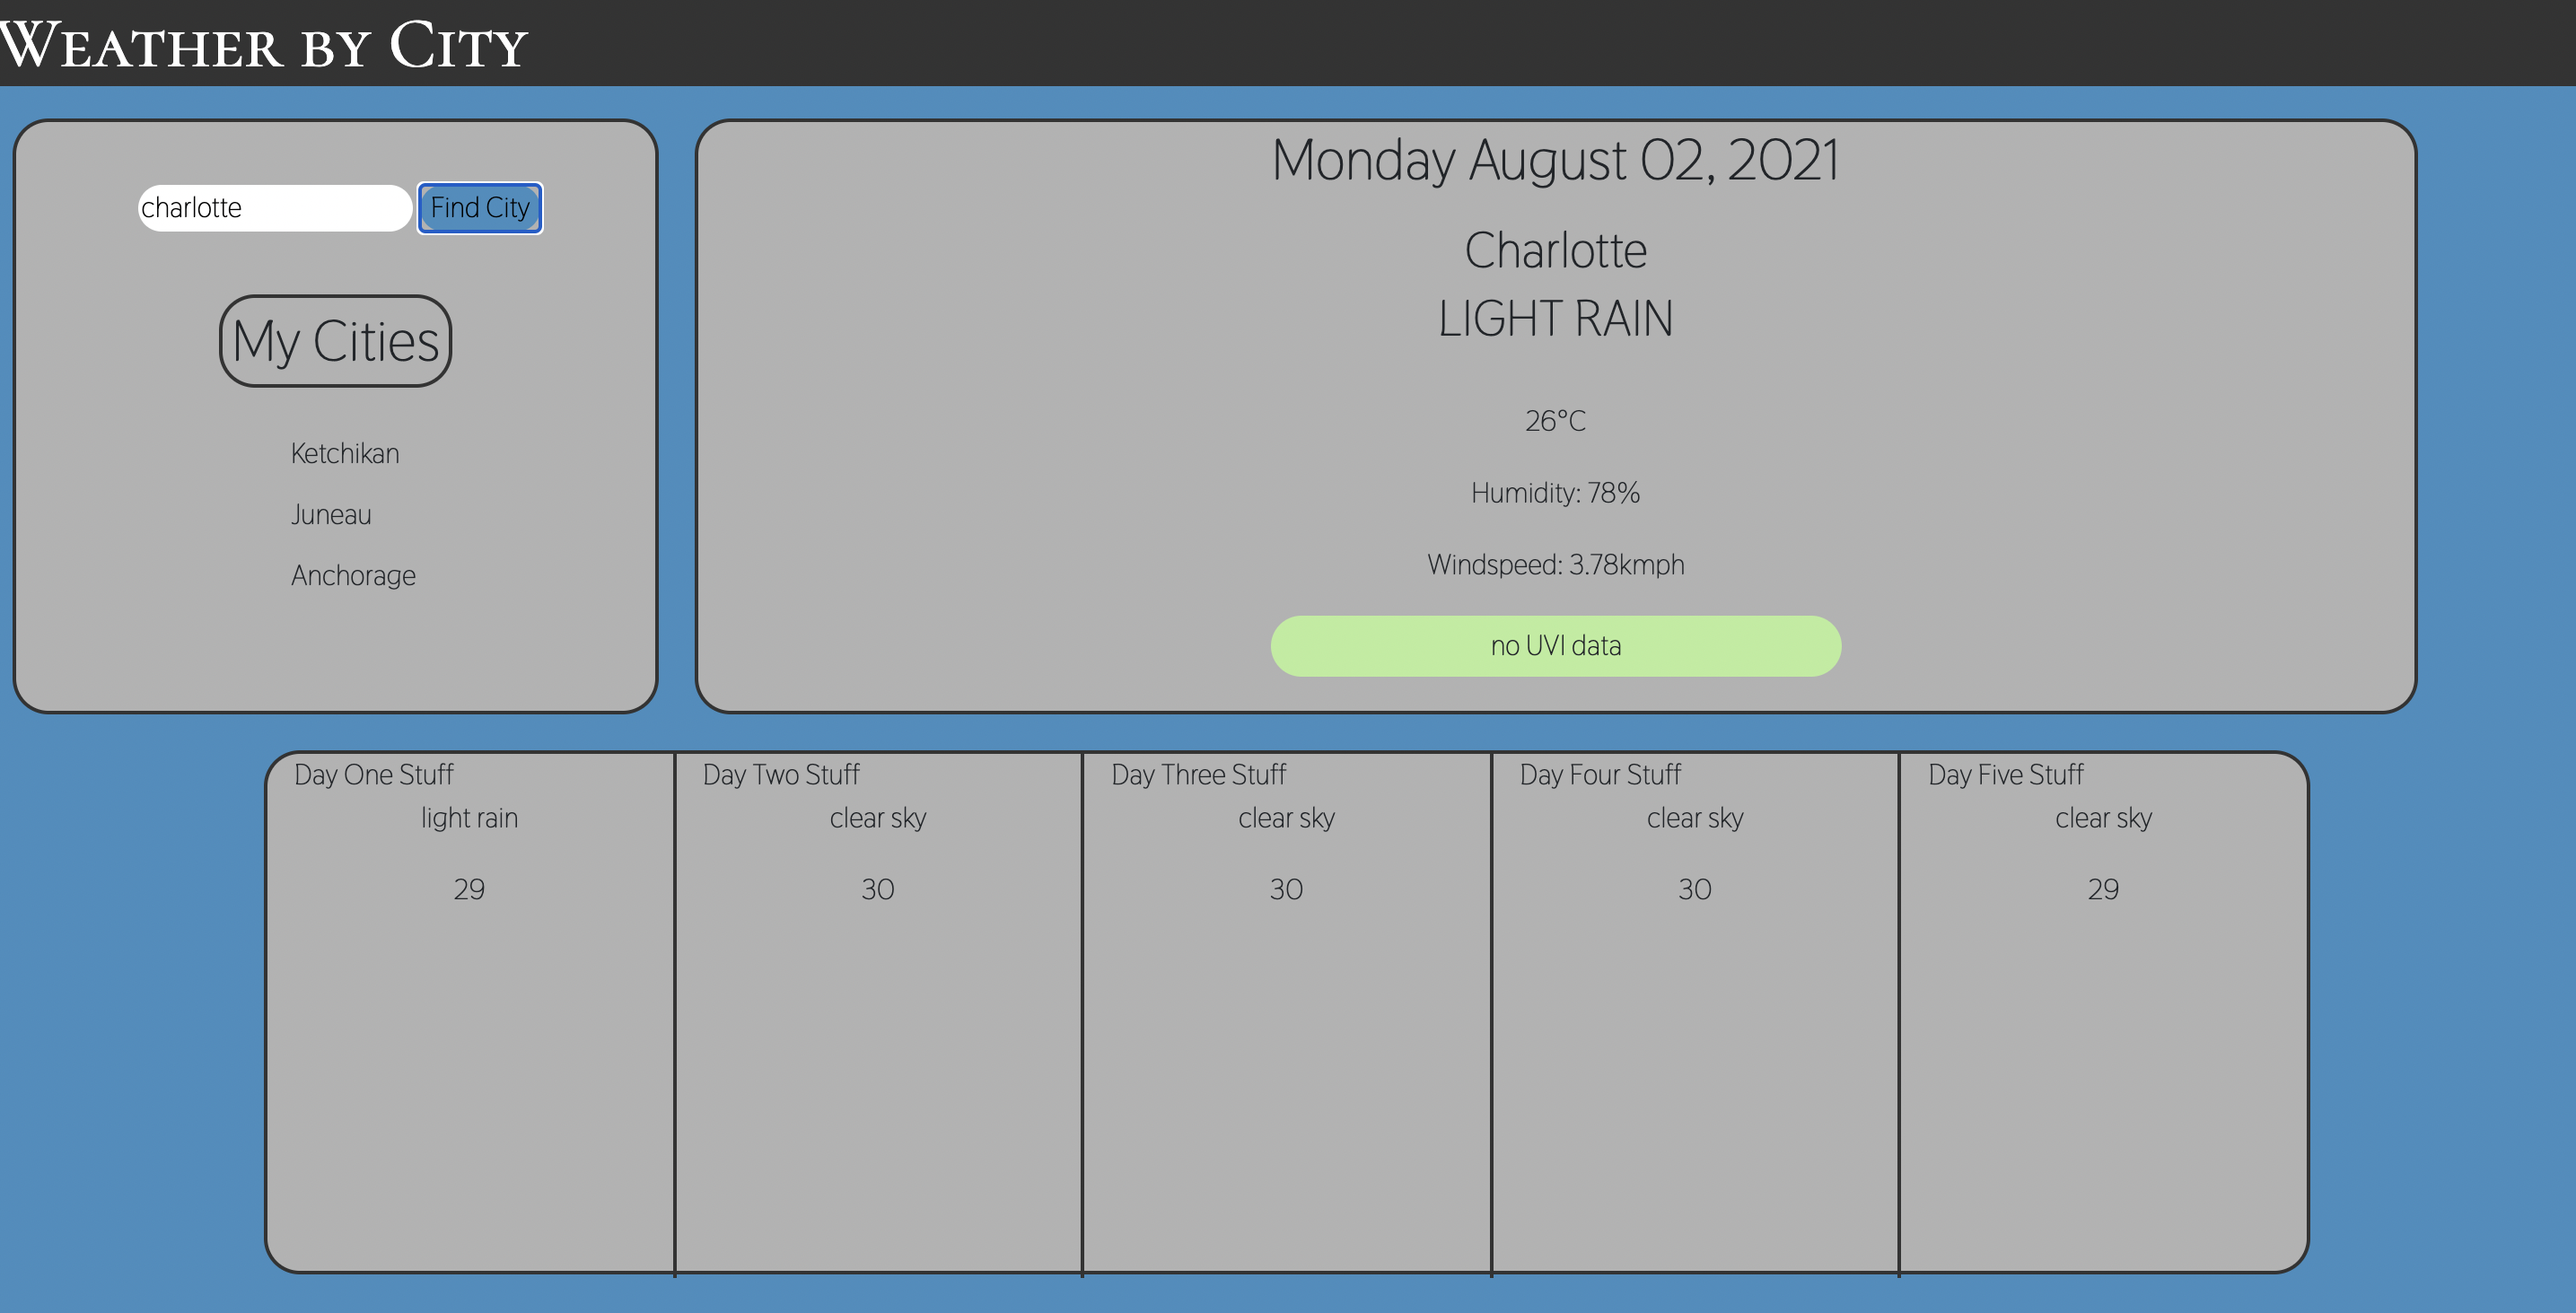
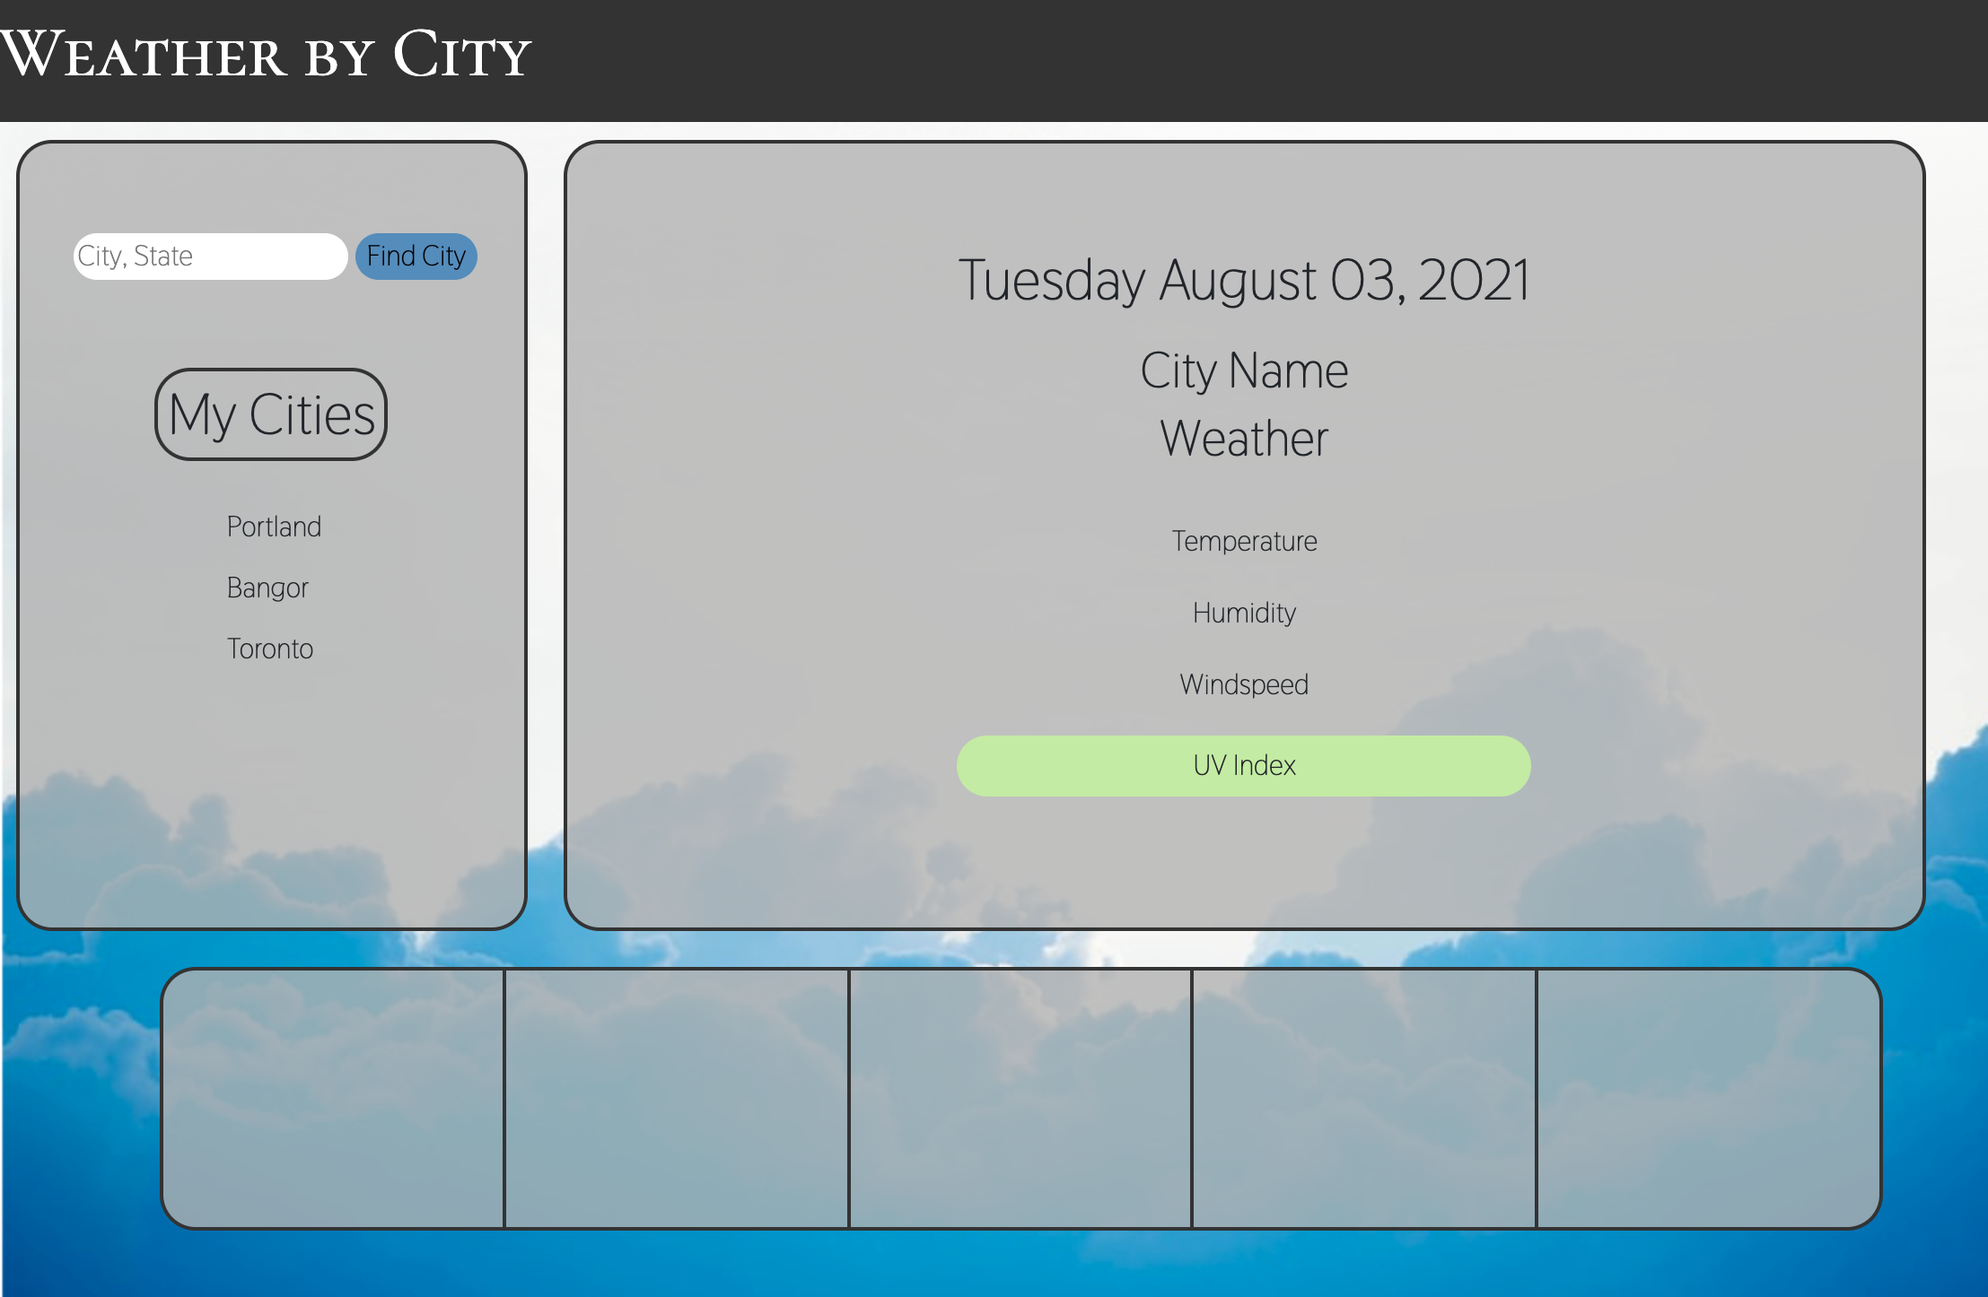
past cities display on load past cities are functioning links site background is image updated screenshot

diff --git a/assets/script.js b/assets/script.js
@@ -14,28 +14,67 @@ $(document).ready(function () {
     const $dayThreeWeather = $('#dayThree');
     const $dayFourWeather = $('#dayFour');
     const $dayFiveWeather = $('#dayFive');
+    const storedCity = getStorage('pastCities');
+    const parsedCitiesFromStorage = parseThis(storedCity)
 
     let currentDay = dayjs();
     
     const apiKey = "d2a2cad4f1d38ef0dfacee769aba90c6";
-
+    
     // functions for accessing local storage
     function parseThis(thing)   {
         return JSON.parse(thing);
     };
-
+    
     function stringifyThis(thing)   {
         return JSON.stringify(thing);
     };
-
+    
     function getStorage(item)   {
         return localStorage.getItem(item);
     };
-
+    
     function setStorage(key, value)    {
         return localStorage.setItem(key, value)
     };
+    
+    function getWeather(lat, long)  {
+        console.log(lat, long)
 
+        fetch(`https://api.openweathermap.org/data/2.5/onecall?lat=${lat}&lon=${lat}&exclude={part}&appid=${apiKey}`)
+        .then(function(response)    {
+            return response.json();
+        })
+        .then(function (data) {
+            console.log(data);
+            const currentWeather = data.current;
+            const forecast = data.daily;
+            displayCurrentWeather(currentWeather);
+            displayForecast(forecast);
+        })
+    }
+
+    function getCity(city)  {
+
+        fetch(`http://api.openweathermap.org/geo/1.0/direct?q=${city}&appid=${apiKey}&units={metric}`)
+        .then(function(response)    {
+            return response.json();
+        })
+        .then(function(data)    {
+            const latitude = data[0].lat;
+            const longitude = data[0].lon;
+            console.log(data)
+
+            getWeather(latitude, longitude)
+        })
+    }
+
+    function displayDate()   {
+        currentDay = dayjs();
+        const day = currentDay.format('dddd MMMM DD, YYYY');
+
+        $todayDate.text(day);
+    }
 
     // show previously searched cities in the past city list
     function displayPastCities(city, i)    {
@@ -53,23 +92,22 @@ $(document).ready(function () {
             const stringifiedCity = stringifyThis(city);
 
             $cityName.text(city);
-
-            getCity(city)
-
+            
             // cities from storage is the storage item 'pastCities'
             const citiesFromStorage = localStorage.getItem('pastCities');
-
+            
             if (city)   {
+                
+                getCity(city)
 
                 if (!citiesFromStorage) {
-                    displayPastCities(stringifiedCity, 0)
                     setStorage('pastCities', `[${stringifiedCity}]`);
                 }
 
                 else {
                     // parse those items from localStorage
-                    const storedCity = getStorage('pastCities');
-                    const parsedCitiesFromStorage = parseThis(storedCity);
+                    storedCity = getStorage('pastCities');
+                    parsedCitiesFromStorage = parseThis(storedCity);
 
                     // add the entered city to the list
                     const newParsedList = [city, ...parsedCitiesFromStorage];
@@ -79,6 +117,9 @@ $(document).ready(function () {
 
                     parsedCitiesFromStorage.forEach(displayPastCities);
                 }
+            }
+            else    {
+                window.alert('Please enter a city.')
             }
     });    
 
@@ -175,51 +216,27 @@ $(document).ready(function () {
 
     }
 
+    function displayMostRecentSearchOnLoad()    {
+        const mostRecentSearchedCity = parsedCitiesFromStorage[0]
 
-    
-    function getWeather(lat, long)  {
-        console.log(lat, long)
-
-        fetch(`https://api.openweathermap.org/data/2.5/onecall?lat=${lat}&lon=${lat}&exclude={part}&appid=${apiKey}`)
-        .then(function(response)    {
-            return response.json();
-        })
-        .then(function (data) {
-            console.log(data);
-            const currentWeather = data.current;
-            const forecast = data.daily;
-            displayCurrentWeather(currentWeather);
-            displayForecast(forecast);
-
-        })
+        getCity(mostRecentSearchedCity);
     }
 
-    function getCity(city)  {
+    $pastCityList.click(function(e)  {
+        const thingClicked = e.target;
 
-        fetch(`http://api.openweathermap.org/geo/1.0/direct?q=${city}&appid=${apiKey}&units={metric}`)
-        .then(function(response)    {
-            return response.json();
-        })
-        .then(function(data)    {
-            const latitude = data[0].lat;
-            const longitude = data[0].lon;
-            console.log(data)
-
-            getWeather(latitude, longitude)
-        })
-    }
-
-    function displayDate()   {
-        currentDay = dayjs();
-        const day = currentDay.format('dddd MMMM DD, YYYY');
-
-        $todayDate.text(day);
-
-    }
+        if  (thingClicked.matches('li'))    {
+            const pastCitySelected = thingClicked.val();
+            getCity(pastCitySelected);
+        }
+    })
 
     displayDate();
 
-    displayPastCities();
+    // this function works, but don't turn it on until deploy (limit api pulls)
+    // displayMostRecentSearchOnLoad()
+
+    parsedCitiesFromStorage.forEach(displayPastCities);
 
 });
 

diff --git a/assets/style.css b/assets/style.css
@@ -1,6 +1,6 @@
 :root   {
     --dark: rgb(51, 51, 51);
-    --grey: rgb(178, 178, 178);
+    --grey: rgb(178, 178, 178, 0.8);
     --light:rgb(255, 255, 255);
     --blue:rgb(63, 142, 191);
     --green:rgb(184, 237, 155);
@@ -14,7 +14,10 @@
 body   {
     height:100vh;
     overflow-y: hidden;
-    background-color: var(--blue);
+    overflow-x: hidden;
+    bottom:0;
+    background-repeat: no-repeat;
+    background-color: white;
 }
 
 main   {
@@ -23,7 +26,13 @@ main   {
 
 header  {
     width:100%;
+    height:70px;
     background-color: var(--dark);
+    vertical-align: bottom;
+    display:flex;
+    align-items: center;
+    position:relative;
+    z-index:100;
 }
 
 h1  {
@@ -49,6 +58,10 @@ li, .past-city-list-item  {
     font-family: var(--body-font);
     padding-top: 10px;
     text-transform: capitalize;
+}
+
+li:hover    {
+    color:var(--blue);
 }
 
 div.row {
@@ -111,8 +124,18 @@ h2.my-cities    {
     padding:5px;
 }
 
+div.five-day-forecast   {
+    height:20vh;
+    margin-top:10px;
+    width:100%;
+}
+
+div.row {
+    height:100%;
+}
+
 div.weather-day {
-    height:40vh;
+    height:100%;
     border-left:2px solid var(--dark);
     font-family: var(--body-font);
 }
@@ -127,12 +150,17 @@ div.last-day   {
     border-left:2px solid var(--dark);
 }
 
-div.five-day-forecast   {
-    height:40vh;
-    margin-top:10px;
-    width:100%;
-}
-
 h3.city-name    {
     text-transform: capitalize;
+}
+
+div.background-img  {
+    width:100vw;
+    position:absolute;
+    bottom:0px;
+}
+
+img {
+    width:100%;
+    z-index:0;
 }

diff --git a/index.html b/index.html
@@ -22,9 +22,15 @@
     <title>Weather by City</title>
 </head>
 <body>
+  <div class="background-img">
+    <!-- image fades out at top -->
+    <img src="./assets/clouds.png" />
+  </div>
+
   <header>
     <h1 class="title">Weather by City</h1>
   </header>
+
 
   <main class="container-fluid">
     <div class="row">
@@ -63,11 +69,11 @@
 
       <div class="five-day-forecast container card">
         <div class="row">
-          <div id="dayOne" class="col weather-day first-day">Day One Stuff</div>
-          <div id="dayTwo" class="col weather-day">Day Two Stuff</div>
-          <div id="dayThree" class="col weather-day">Day Three Stuff</div>
-          <div id="dayFour" class="col weather-day">Day Four Stuff</div>
-          <div id="dayFive" class="col weather-day last-day">Day Five Stuff</div>
+          <div id="dayOne" class="col weather-day first-day"></div>
+          <div id="dayTwo" class="col weather-day"></div>
+          <div id="dayThree" class="col weather-day"></div>
+          <div id="dayFour" class="col weather-day"></div>
+          <div id="dayFive" class="col weather-day last-day"></div>
         </div>
       </div>
   </div>
